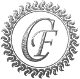
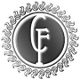
Forum marking start, image changes

diff --git a/public/stylesheets/layout.css b/public/stylesheets/layout.css
@@ -1,7 +1,7 @@
 div#main {
   top: 20px;
   margin: auto;
-  width: 765px;
+  width: 850px;
 }
 
 div.sequential {
@@ -13,7 +13,7 @@ div.clear {
 }
 
 div#banner {
-  height: 190px;
+  height: 210px;
 }
 
 div#mainmenu {

diff --git a/app/models/topic.rb b/app/models/topic.rb
@@ -9,6 +9,7 @@ class Topic
   property :body_html, Text
   property :locked, Boolean, :default => false
   property :sticky, Boolean, :default => false
+  property :last_reply_at, DateTime
   property :created_at, DateTime
   property :updated_at, DateTime
   property :deleted_at, ParanoidDateTime
@@ -24,6 +25,9 @@ class Topic
     if self.body
       self.body.strip!
       self.body_html = self.body.bbcode_to_html
+    end
+    if self.last_reply_at.nil?
+      self.last_reply_at = Time.now
     end
   end
 

diff --git a/app/models/forum.rb b/app/models/forum.rb
@@ -9,7 +9,7 @@ class Forum
   belongs_to :forum_group
 
   has n, :forum_roles
-  has n, :topics, :order => [:sticky.desc, :created_at.desc]
+  has n, :topics, :order => [:sticky.desc, :last_reply_at.desc]
   has n, :roles, :through => Resource
 
   is :list, :scope => :forum_group_id

diff --git a/app/models/user.rb b/app/models/user.rb
@@ -15,6 +15,8 @@ class User
   has n, :topics, :child_key => [ :author_id ]
   has n, :replies, :child_key => [ :author_id ]
   has 1, :profile
+  has n, :marked_topics
+  has n, :marked_forums
 
   before :valid? do 
     self.role = Role.first(:name => "Guest") if self.role.nil?

diff --git a/app/models/reply.rb b/app/models/reply.rb
@@ -20,4 +20,9 @@ class Reply
       self.body_html = self.body.bbcode_to_html
     end
   end
+
+  after :save do
+    self.topic.last_reply_at = self.updated_at
+    self.topic.save
+  end
 end

diff --git a/app/models/marked_topic.rb b/app/models/marked_topic.rb
@@ -1,0 +1,9 @@
+class MarkedTopic
+  include DataMapper::Resource
+
+  property :last_read, DateTime
+  
+  belongs_to :topic, :key => true
+  belongs_to :user, :key => true
+  
+end

diff --git a/app/models/marked_forum.rb b/app/models/marked_forum.rb
@@ -1,0 +1,8 @@
+class MarkedForum
+  include DataMapper::Resource
+
+  property :last_read_at, DateTime
+
+  belongs_to :user, :key => true
+  belongs_to :forum, :key => true
+end
